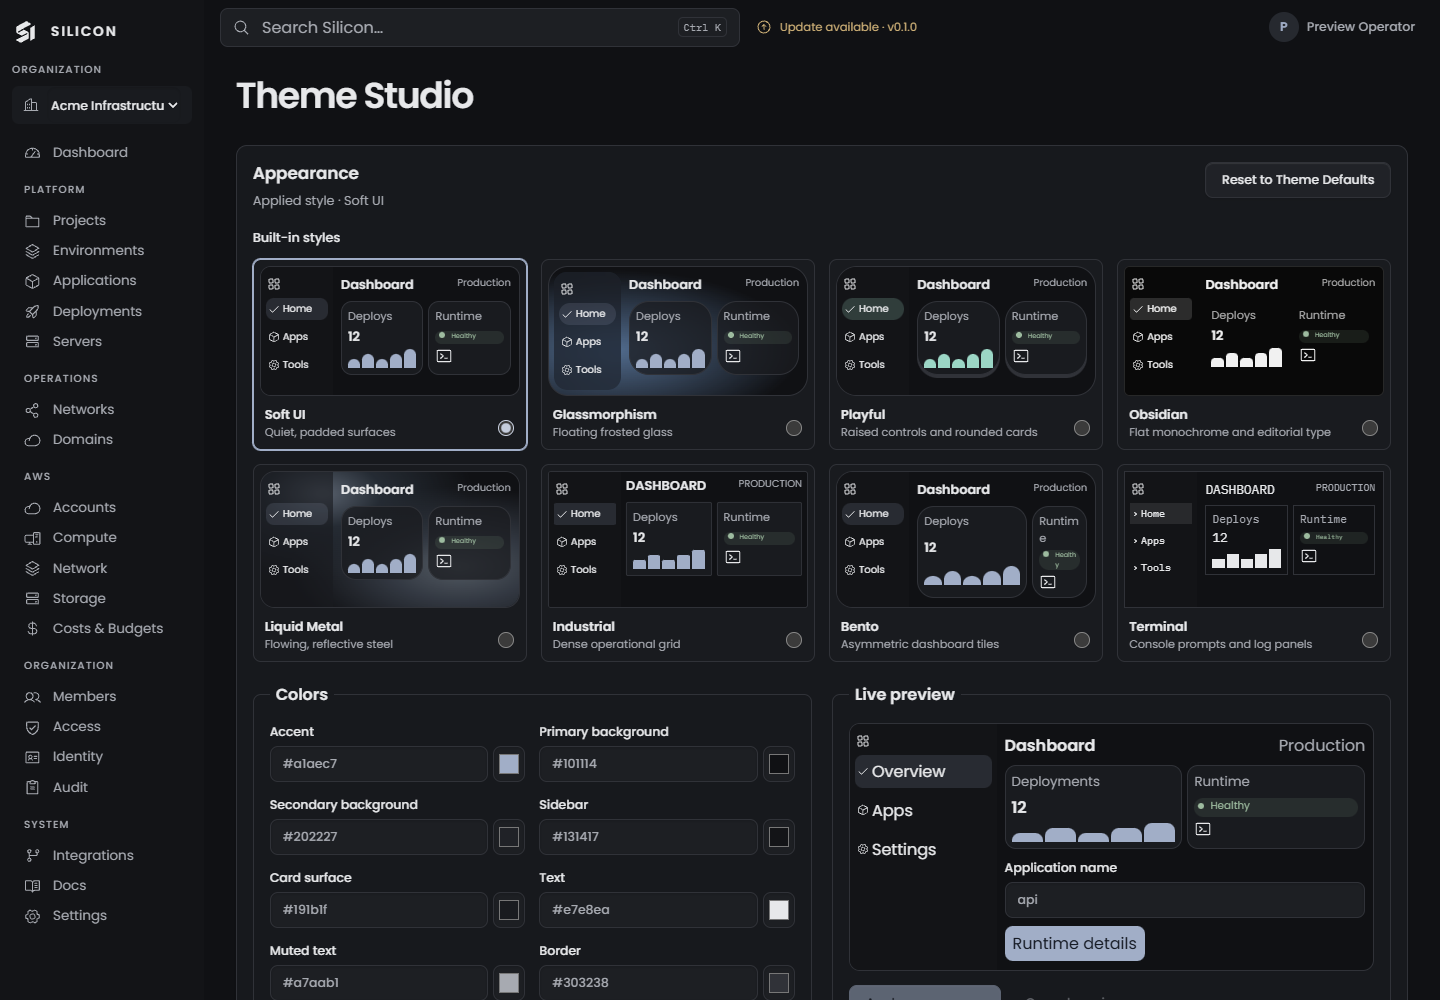
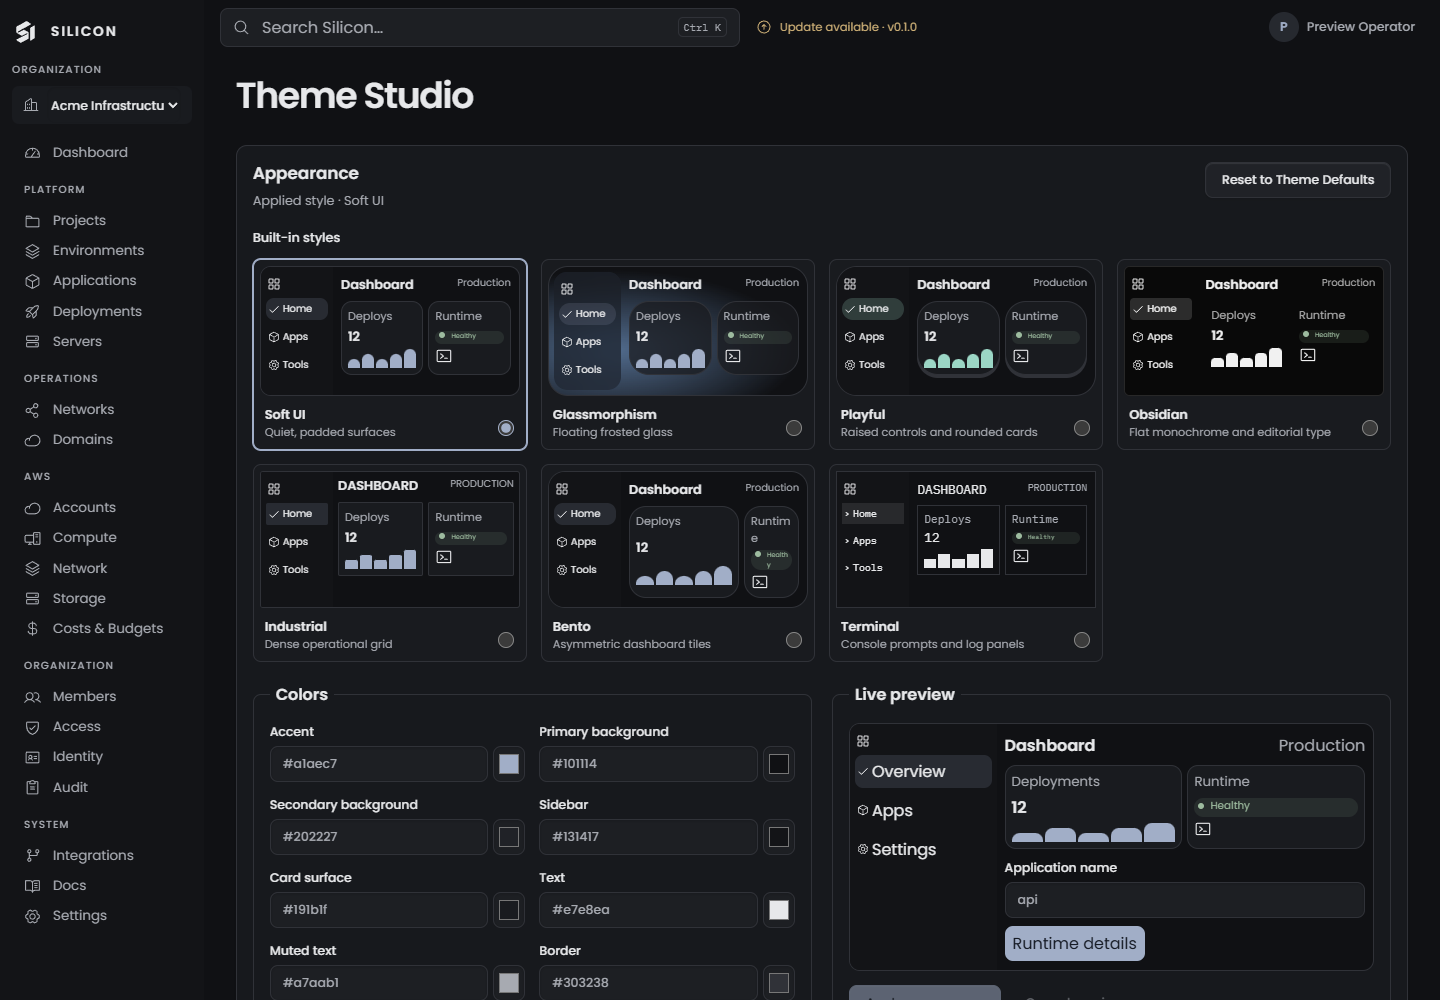
Remove Liquid Metal from Theme Studio documentation

diff --git a/docs/guides/theme-studio.md b/docs/guides/theme-studio.md
@@ -2,11 +2,11 @@
 
 Open the account menu beside your name and choose **Theme Studio**. You can also find Appearance under **Settings**. Changes belong to your account and follow you across browsers.
 
-1. Pick one of the eight built-in styles. Try the input and **Runtime details** button in the live preview.
+1. Pick one of the seven built-in styles. Try the input and **Runtime details** button in the live preview.
 2. Choose **Color mode**, **Density**, and **Motion**. Follow System uses your device settings. Reduced Motion and No Motion disable decorative animations. Silicon also honors a device-level reduced-motion request.
 3. Use **Colors** to pick a color or type a six-digit HEX value such as `#a1aec7`. Clear a field to use the theme default. Increase contrast if Studio flags an unreadable combination.
 4. Under **Background**, choose a solid color, gradient, animated gradient, blurred blobs, image, or the theme default. Pick where it appears. Preview an uploaded PNG, JPEG, or WebP up to 1 MiB, then choose **Upload image**. Adjust the fit, position, opacity, blur or overlay. The image is private to your account. Your presets share one image slot.
-5. For **Glassmorphism**, adjust the frosted surfaces, reflections, and moving blobs. For **Liquid Metal**, move the pointer over a panel to see its reflection bend and brighten. Choose the motion, distortion and reflection settings or lower quality on a slower device. Without WebGL, Silicon uses a static material with pointer highlights when motion is enabled.
+5. For **Glassmorphism**, adjust the frosted surfaces, reflections, and moving blobs.
 6. Choose **Apply appearance** to use these changes throughout Silicon. Choose **Cancel preview** to return to the applied settings. Uploading or removing an image saves it immediately.
 7. To keep a configuration, give it a name and choose **Save custom preset**, then **Apply appearance** to store it. Use **Preview preset**, **Rename preset**, or **Delete preset**, then apply your change. **Reset to Theme Defaults** clears your current style customizations when applied and preserves saved presets.
 
@@ -15,5 +15,3 @@ Open the account menu beside your name and choose **Theme Studio**. You can also
 ### Material examples
 
 ![Glassmorphism dashboard with frosted floating navigation](/img/screenshots/dashboard-glass.png)
-
-![Liquid Metal dashboard with flowing steel reflections](/img/screenshots/dashboard-metal.png)
